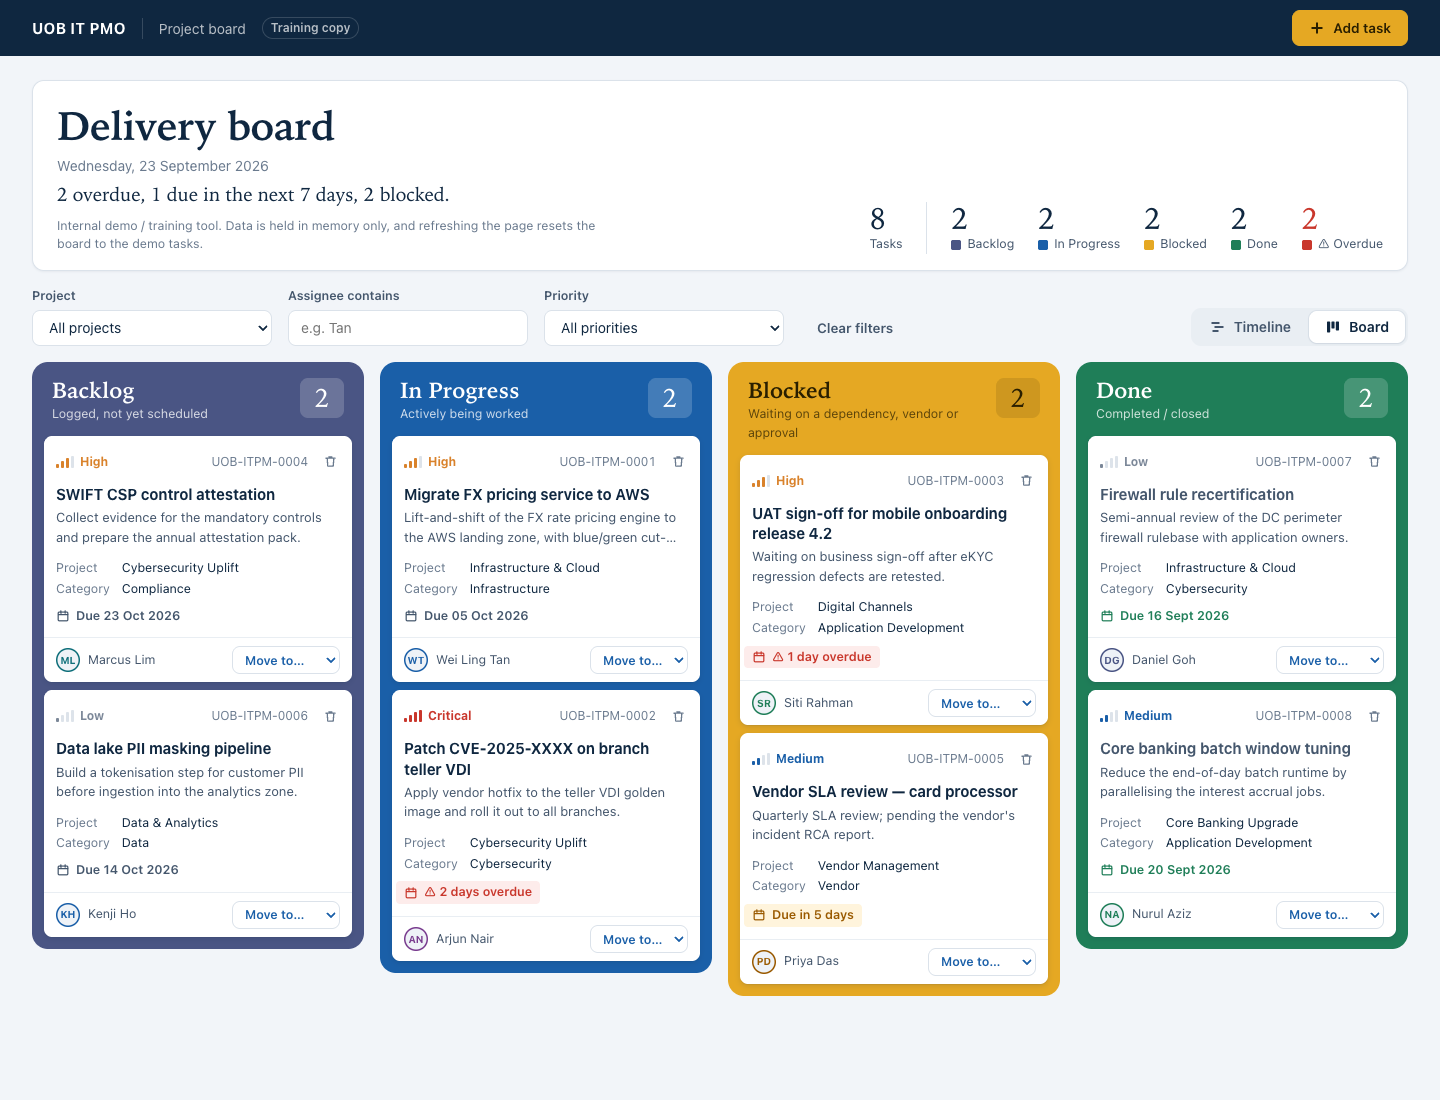
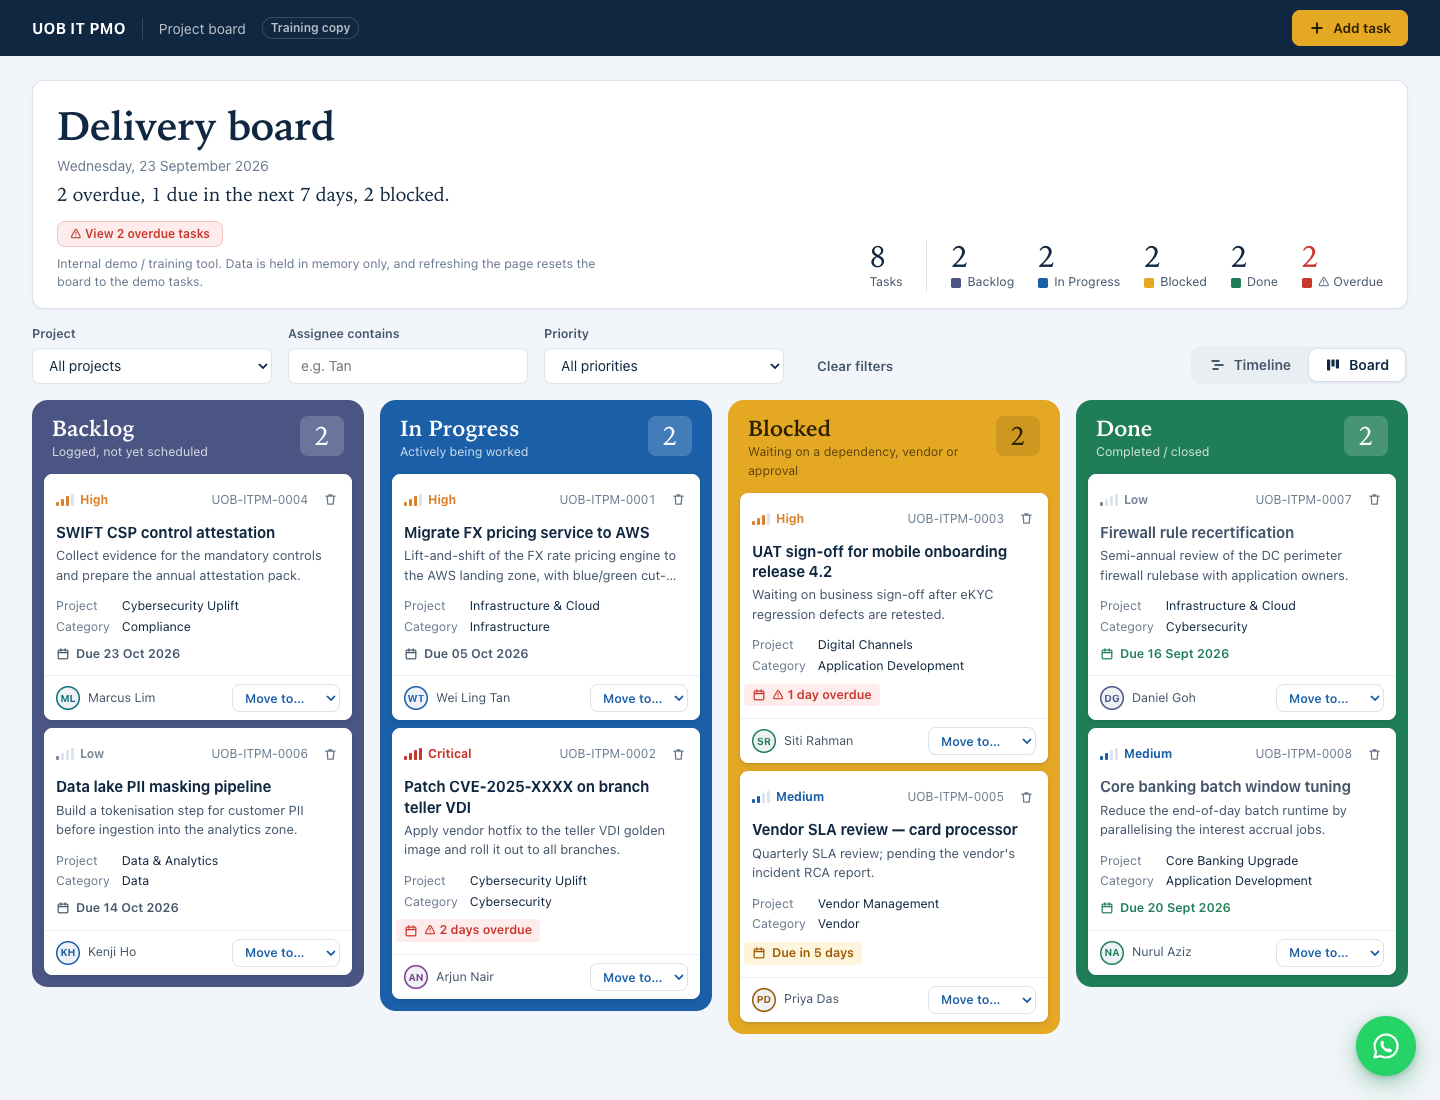
Add WhatsApp IT support widget and overdue tasks list
- Floating WhatsApp button opens suggested IT support questions; each
  opens wa.me/6512345678 in a new tab with the question pre-filled
- "View N overdue tasks" button opens a list of overdue tasks, most
  overdue first, with "Show on board" (clears hiding filters)
- Help popup now waits while any dialog is open
- README screenshots retaken, help popup screenshot added; docs updated

diff --git a/index.html b/index.html
@@ -68,6 +68,14 @@
     --av-bg: #eef2f7;
 
     --focus: #2f80ed;
+
+    /* WhatsApp support widget */
+    --wa-green:      #25d366;
+    --wa-green-dark: #0a7038;
+    --wa-ink:        #ffffff;
+    --wa-tint:       #e9f9ef;
+    --wa-shadow:     0 8px 24px rgba(18, 140, 74, .4), 0 2px 6px rgba(15, 39, 64, .2);
+    --fab-size:      60px;
     --backdrop: rgba(15, 39, 64, .55);
     --shadow-card: 0 1px 0 rgba(15, 39, 64, .06), 0 2px 6px rgba(15, 39, 64, .14);
     --shadow-sheet: 0 1px 2px rgba(15, 39, 64, .06);
@@ -473,6 +481,62 @@
   }
   .hotline a:hover { color: var(--lane-in-progress); text-decoration: underline; text-underline-offset: 3px; }
   .help-actions { display: flex; justify-content: flex-end; }
+
+  /* Overdue tasks: button in the overview + list dialog */
+  .btn-overdue { margin-top: var(--space-3); color: var(--signal); background: var(--error-bg); border-color: var(--error-rule); }
+  .btn-overdue:hover { background: var(--paper); border-color: var(--signal); }
+  .btn-overdue[disabled] { color: var(--ok); background: var(--wash); border-color: var(--rule); opacity: 1; }
+  .overdue-dialog { width: min(640px, calc(100vw - 32px)); }
+  .overdue-dialog .dialog-header { border-bottom: 1px solid var(--rule-2); }
+  .od-body { padding: var(--space-3) var(--space-5) var(--space-5); max-height: min(60vh, 560px); overflow-y: auto; }
+  .od-list { list-style: none; margin: 0; padding: 0; }
+  .od-item {
+    display: grid; grid-template-columns: 76px 1fr auto; gap: var(--space-4); align-items: center;
+    padding: var(--space-3) 0; border-bottom: 1px solid var(--rule-2);
+  }
+  .od-item:last-child { border-bottom: 0; }
+  .od-days {
+    text-align: center; padding: var(--space-2) var(--space-1);
+    background: var(--error-bg); border: 1px solid var(--error-rule); border-radius: var(--radius-card); color: var(--signal);
+  }
+  .od-days strong { display: block; font-family: var(--serif); font-size: 26px; line-height: 1; }
+  .od-days span { font-size: 11.5px; font-weight: 600; }
+  .od-title { margin: 0 0 2px; font-size: 14.5px; font-weight: 650; overflow-wrap: anywhere; }
+  .od-meta { margin: 0; display: flex; flex-wrap: wrap; gap: 2px var(--space-3); font-size: 12.5px; color: var(--ink-3); }
+  .od-meta .g-status, .od-meta .prio { font-size: 12.5px; }
+  .od-empty { margin: 0; padding: var(--space-6) 0; text-align: center; color: var(--ok); font-weight: 600; }
+
+  /* Floating WhatsApp button + suggested-questions dialog */
+  .wa-fab {
+    position: fixed; right: var(--space-5); bottom: var(--space-5); z-index: 90;
+    width: var(--fab-size); height: var(--fab-size); border-radius: 50%; border: 0;
+    display: grid; place-items: center; cursor: pointer;
+    background: var(--wa-green); color: var(--wa-ink); box-shadow: var(--wa-shadow);
+    transition: transform .15s;
+  }
+  .wa-fab:hover { transform: scale(1.06); background: var(--wa-green-dark); }
+  .wa-fab svg { width: 32px; height: 32px; }
+  .wa-dialog { width: min(460px, calc(100vw - 32px)); }
+  .wa-dialog .dialog-header { background: var(--wa-green-dark); color: var(--wa-ink); border-radius: var(--radius-sheet) var(--radius-sheet) 0 0; padding-bottom: var(--space-4); }
+  .wa-dialog .dialog-sub { color: var(--wa-ink); }
+  .wa-dialog .icon-btn { color: var(--wa-ink); }
+  .wa-dialog .icon-btn:hover { background: var(--lane-chip-light); color: var(--wa-ink); }
+  .wa-body { padding: var(--space-4) var(--space-5) var(--space-5); }
+  .wa-body h3 { margin: 0 0 var(--space-2); font-size: 13px; font-weight: 600; color: var(--ink-3); }
+  .wa-queries { list-style: none; margin: 0; padding: 0; display: flex; flex-direction: column; gap: var(--space-2); }
+  .wa-query {
+    display: flex; align-items: center; gap: var(--space-3);
+    padding: 10px var(--space-3); border: 1px solid var(--rule); border-radius: var(--radius-card);
+    color: var(--ink); text-decoration: none; font-weight: 500;
+  }
+  .wa-query:hover { border-color: var(--wa-green); background: var(--wa-tint); }
+  .wa-query svg { width: 18px; height: 18px; color: var(--wa-green-dark); flex: none; }
+  .wa-foot {
+    display: flex; align-items: center; justify-content: space-between; gap: var(--space-3); flex-wrap: wrap;
+    margin-top: var(--space-4); padding-top: var(--space-3); border-top: 1px solid var(--rule-2);
+    font-size: 12.5px; color: var(--ink-3);
+  }
+  .wa-foot a { color: var(--wa-green-dark); font-weight: 700; }
   .task-form { padding: var(--space-2) var(--space-5) 0; }
   .form-grid { display: grid; grid-template-columns: 1fr 1fr; gap: var(--space-2) var(--space-4); }
   .form-grid .full { grid-column: 1 / -1; }
@@ -492,7 +556,7 @@
      10. Toasts
      ========================================================== */
   .toasts {
-    position: fixed; right: var(--space-5); bottom: var(--space-5);
+    position: fixed; right: var(--space-5); bottom: calc(var(--space-5) + var(--fab-size) + var(--space-3));
     display: flex; flex-direction: column; gap: var(--space-2);
     z-index: 100; max-width: calc(100vw - 32px);
   }
@@ -530,7 +594,10 @@
   }
   @media (max-width: 520px) {
     .form-grid { grid-template-columns: 1fr; }
-    .toasts { right: var(--space-4); bottom: var(--space-4); }
+    .od-item { grid-template-columns: 64px 1fr; }
+    .od-item .btn { grid-column: 2; justify-self: start; }
+    .toasts { right: var(--space-4); bottom: calc(var(--space-4) + var(--fab-size) + var(--space-3)); }
+    .wa-fab { right: var(--space-4); bottom: var(--space-4); }
     .filters .field { flex: 1 1 100%; }
   }
   @media (prefers-reduced-motion: reduce) {
@@ -569,6 +636,7 @@
           <h1 class="page-title" id="page-title">Delivery board</h1>
           <p class="as-of" id="as-of"></p>
           <p class="board-status" id="board-status"></p>
+          <button type="button" id="open-overdue" class="btn btn-sm btn-overdue" aria-haspopup="dialog">View overdue tasks</button>
           <p class="demo-note">Internal demo / training tool. Data is held in memory only, and refreshing the page resets the board to the demo tasks.</p>
         </div>
         <dl class="summary" aria-label="Board summary">
@@ -705,6 +773,49 @@
   </div>
 </dialog>
 
+<!-- ============================================================
+     Overdue tasks dialog (list rendered from state when opened)
+     ============================================================ -->
+<dialog id="overdue-dialog" class="overdue-dialog" aria-labelledby="overdue-dialog-title" aria-describedby="overdue-dialog-desc">
+  <div class="dialog-header">
+    <div>
+      <h2 id="overdue-dialog-title">Overdue tasks</h2>
+      <p class="dialog-sub" id="overdue-dialog-desc">Open tasks past their due date, most overdue first. This list ignores the filters.</p>
+    </div>
+    <button type="button" class="icon-btn" id="close-overdue" aria-label="Close overdue tasks">
+      <svg viewBox="0 0 16 16" aria-hidden="true" focusable="false"><path d="M4 4l8 8M12 4l-8 8" stroke="currentColor" stroke-width="1.8" stroke-linecap="round"/></svg>
+    </button>
+  </div>
+  <div class="od-body" id="overdue-list"></div>
+</dialog>
+
+<!-- ============================================================
+     WhatsApp IT support: floating button + suggested questions
+     (questions are rendered from SUPPORT_QUERIES in JS)
+     ============================================================ -->
+<button type="button" id="wa-fab" class="wa-fab" aria-label="Chat with IT support on WhatsApp" aria-haspopup="dialog" title="Chat with IT support on WhatsApp">
+  <svg viewBox="0 0 32 32" aria-hidden="true" focusable="false"><path d="M16 4.5A11.5 11.5 0 0 0 6.1 21.8L4.5 27.5l5.9-1.5A11.5 11.5 0 1 0 16 4.5Z" fill="none" stroke="currentColor" stroke-width="2.2" stroke-linejoin="round"/><path d="M12.2 10.5c.4 0 .7.1.9.6l1 2.3c.1.3 0 .6-.1.8l-.8 1c.9 1.7 2.2 3 3.9 3.9l1-.8c.3-.2.5-.2.8-.1l2.3 1c.4.2.6.5.6.9 0 1.5-1.3 2.5-2.7 2.3-4.6-.6-8.2-4.2-8.8-8.8-.2-1.5.8-2.8 1.9-3.1Z" fill="currentColor"/></svg>
+</button>
+<dialog id="wa-dialog" class="wa-dialog" aria-labelledby="wa-dialog-title" aria-describedby="wa-dialog-desc">
+  <div class="dialog-header">
+    <div>
+      <h2 id="wa-dialog-title">IT support on WhatsApp</h2>
+      <p class="dialog-sub" id="wa-dialog-desc">Pick a question to start a chat. WhatsApp opens in a new tab with your message ready to edit and send.</p>
+    </div>
+    <button type="button" class="icon-btn" id="close-wa" aria-label="Close WhatsApp support">
+      <svg viewBox="0 0 16 16" aria-hidden="true" focusable="false"><path d="M4 4l8 8M12 4l-8 8" stroke="currentColor" stroke-width="1.8" stroke-linecap="round"/></svg>
+    </button>
+  </div>
+  <div class="wa-body">
+    <h3 id="wa-queries-title">Common questions</h3>
+    <ul class="wa-queries" id="wa-queries" aria-labelledby="wa-queries-title"></ul>
+    <div class="wa-foot">
+      <span>WhatsApp <span id="wa-number-label"></span></span>
+      <a id="wa-blank" target="_blank" rel="noopener noreferrer">Start a blank chat</a>
+    </div>
+  </div>
+</dialog>
+
 <!-- Toast region (announced politely to screen readers) -->
 <div id="toasts" class="toasts" role="status" aria-live="polite"></div>
 
@@ -725,6 +836,20 @@ const FORMSUBMIT_ENDPOINT = "https://formsubmit.co/ajax/YOUR_EMAIL@example.com";
 // Help popup: shown once per page load after this many ms of visible time on the page
 const HELP_PROMPT_DELAY_MS = 10000;
 const SUPPORT_HOTLINE = "12345678";
+
+// WhatsApp IT support: international number without "+" or spaces, and the
+// suggested questions shown when the floating button is clicked
+const WHATSAPP_NUMBER = "6512345678";
+const SUPPORT_QUERIES = [
+  "I can't log in or my account is locked",
+  "I need to reset my password",
+  "VPN or remote access isn't working",
+  "I need software installed on my laptop",
+  "My laptop or other hardware has a problem",
+  "I need access to a shared drive or application",
+  "I want to report a suspicious or phishing email",
+  "What's the status of my support ticket?",
+];
 
 const STATUSES = [
   { name: "Backlog",     hint: "Logged, not yet scheduled" },
@@ -1058,6 +1183,10 @@ function renderSummary() {
   document.getElementById("board-status").textContent =
     parts.length ? parts.join(", ") + "." : "Nothing is overdue, due this week or blocked.";
 
+  const overdueBtn = document.getElementById("open-overdue");
+  overdueBtn.textContent = overdue ? `⚠ View ${plural(overdue, "overdue task")}` : "✓ No overdue tasks";
+  overdueBtn.disabled = !overdue;
+
   renderTimeline();
 }
 
@@ -1360,14 +1489,69 @@ function wireViews() {
   // Picking a task on the timeline opens the board on that card
   document.getElementById("timeline-view").addEventListener("click", e => {
     const btn = e.target.closest("[data-show]");
+    if (btn) showOnBoard(btn.dataset.show);
+  });
+}
+
+// Switch to the board and flash + focus one card, clearing filters that hide it
+function showOnBoard(id) {
+  if (!applyFilters(state.tasks).some(t => t.id === id)) resetFilters();
+  const sel = `.card[data-id="${CSS.escape(id)}"]`;
+  ui.view = "board";
+  ui.highlight = id;
+  ui.focusAfterRender = `${sel} .move-select`;
+  renderBoard();
+  const card = document.querySelector(sel);
+  if (card) card.scrollIntoView({ block: "center" });
+}
+
+/* ============================================================
+   OVERDUE LIST: every open task past its due date, worst first
+   ============================================================ */
+function renderOverdueList() {
+  const tasks = state.tasks.filter(isOverdue)
+    .sort((a, b) => (a.dueDate < b.dueDate ? -1 : a.dueDate > b.dueDate ? 1 : 0));
+  const list = document.getElementById("overdue-list");
+  if (!tasks.length) {
+    list.innerHTML = `<p class="od-empty">✓ Nothing is overdue.</p>`;
+    return;
+  }
+  list.innerHTML = `<ul class="od-list">${tasks.map(t => {
+    const id = escapeHtml(t.id);
+    const days = -daysFromToday(t.dueDate);
+    const level = PRIORITIES.length - PRIORITIES.indexOf(t.priority);
+    return `
+      <li class="od-item prio-${slug(t.priority)}">
+        <div class="od-days"><strong>${escapeHtml(days)}</strong><span>${days === 1 ? "day" : "days"} late</span></div>
+        <div>
+          <p class="od-title">${escapeHtml(t.title)}</p>
+          <p class="od-meta">
+            <span>${id}</span>
+            <span class="g-status st-${slug(t.status)}">${escapeHtml(t.status)}</span>
+            <span class="prio" style="--prio: var(--p-${slug(t.priority)})"><span class="prio-meter lvl-${level}" aria-hidden="true"><i></i><i></i><i></i><i></i></span>${escapeHtml(t.priority)}</span>
+            <span>${escapeHtml(t.assignee)}</span>
+            <span>Due ${escapeHtml(formatDate(t.dueDate))}</span>
+          </p>
+        </div>
+        <button type="button" class="btn btn-sm" data-show="${id}">Show on board</button>
+      </li>`;
+  }).join("")}</ul>`;
+}
+
+function wireOverdue() {
+  const od = document.getElementById("overdue-dialog");
+  document.getElementById("open-overdue").addEventListener("click", () => {
+    renderOverdueList();
+    od.showModal();
+    const first = od.querySelector("[data-show]") || document.getElementById("close-overdue");
+    first.focus();
+  });
+  document.getElementById("close-overdue").addEventListener("click", () => od.close());
+  od.addEventListener("click", e => {
+    const btn = e.target.closest("[data-show]");
     if (!btn) return;
-    const sel = `.card[data-id="${CSS.escape(btn.dataset.show)}"]`;
-    ui.view = "board";
-    ui.highlight = btn.dataset.show;
-    ui.focusAfterRender = `${sel} .move-select`;
-    renderBoard();
-    const card = document.querySelector(sel);
-    if (card) card.scrollIntoView({ block: "center" });
+    od.close();
+    showOnBoard(btn.dataset.show);
   });
 }
 
@@ -1381,10 +1565,14 @@ function wireFilters() {
   assignee.addEventListener("input", () => { state.filters.assignee = assignee.value; renderBoard(); });
 
   document.getElementById("clear-filters").addEventListener("click", () => {
-    state.filters = { project: "", assignee: "", priority: "" };
-    project.value = ""; assignee.value = ""; priority.value = "";
+    resetFilters();
     renderBoard();
   });
+}
+
+function resetFilters() {
+  state.filters = { project: "", assignee: "", priority: "" };
+  ["filter-project", "filter-assignee", "filter-priority"].forEach(id => { document.getElementById(id).value = ""; });
 }
 
 /* ============================================================
@@ -1393,6 +1581,40 @@ function wireFilters() {
 /* ============================================================
    HELP POPUP: thank the visitor and show the support hotline
    ============================================================ */
+/* ============================================================
+   WHATSAPP SUPPORT: floating button opens suggested questions;
+   each opens wa.me in a new tab with the question pre-filled
+   ============================================================ */
+function whatsappLink(message) {
+  const base = "https://wa.me/" + WHATSAPP_NUMBER.replace(/[^0-9]/g, "");
+  return message ? base + "?text=" + encodeURIComponent(message) : base;
+}
+
+function wireWhatsApp() {
+  const waDialog = document.getElementById("wa-dialog");
+  const icon = '<svg viewBox="0 0 16 16" aria-hidden="true" focusable="false"><path d="M8 1.8a6.2 6.2 0 0 0-5.4 9.3l-.8 3.1 3.2-.8A6.2 6.2 0 1 0 8 1.8Z" fill="none" stroke="currentColor" stroke-width="1.4" stroke-linejoin="round"/></svg>';
+
+  document.getElementById("wa-queries").innerHTML = SUPPORT_QUERIES.map(q => {
+    const href = whatsappLink(`Hi IT Support, ${q}. (Sent from the UOB IT PMO board)`);
+    return `<li><a class="wa-query" href="${escapeHtml(href)}" target="_blank" rel="noopener noreferrer">${icon}<span>${escapeHtml(q)}</span></a></li>`;
+  }).join("");
+
+  const digits = WHATSAPP_NUMBER.replace(/[^0-9]/g, "");
+  document.getElementById("wa-number-label").textContent =
+    digits.length === 10 && digits.startsWith("65") ? `+65 ${digits.slice(2, 6)} ${digits.slice(6)}` : "+" + digits;
+  document.getElementById("wa-blank").href = whatsappLink("");
+
+  document.getElementById("wa-fab").addEventListener("click", () => {
+    waDialog.showModal();
+    waDialog.querySelector(".wa-query").focus();
+  });
+  document.getElementById("close-wa").addEventListener("click", () => waDialog.close());
+  // Close once a chat link has been opened in the new tab
+  waDialog.addEventListener("click", e => {
+    if (e.target.closest("a[href]")) waDialog.close();
+  });
+}
+
 function wireHelpPrompt() {
   const help = document.getElementById("help-dialog");
   const link = document.getElementById("help-hotline");
@@ -1410,8 +1632,9 @@ function wireHelpPrompt() {
 
   function show() {
     if (shown) return;
-    if (dialog.open) {
-      dialog.addEventListener("close", show, { once: true });
+    const busy = document.querySelector("dialog[open]");
+    if (busy) {
+      busy.addEventListener("close", show, { once: true });
       return;
     }
     shown = true;
@@ -1466,6 +1689,8 @@ function init() {
 
   seedTasks();
   renderBoard();
+  wireOverdue();
+  wireWhatsApp();
   wireHelpPrompt();
 }
 

diff --git a/README.md b/README.md
@@ -14,6 +14,10 @@ A single-file IT PMO Kanban board for internal demos and training. It shows how 
 
 ![UOB IT PMO Board in board view, showing the four colour Kanban lanes](docs/screenshot-board.png)
 
+**Help popup**: after 10 seconds on the page, visitors see the IT support hotline.
+
+![Help popup thanking the visitor and showing the IT support hotline 12345678](docs/screenshot-help.png)
+
 ## Features
 
 - **Four colour lanes** (Backlog, In Progress, Blocked, Done), like tape on a physical kanban wall, each with a short hint and a task count.
@@ -25,7 +29,9 @@ A single-file IT PMO Kanban board for internal demos and training. It shows how 
 - **Add Task dialog** with inline validation: title (max 80 chars), optional description (max 500), project, category, assignee, priority, due date and status. New tasks get IDs like `UOB-ITPM-0009`.
 - **Inline delete confirmation** ("Delete? Yes / No") instead of browser pop-ups.
 - **Overdue highlighting** for tasks whose due date has passed and that are not Done, plus a "Due in 5 days"-style label for tasks due within a week. Demo due dates are relative to today, so some cards are always overdue.
-- **Help popup**: after 10 seconds on the page (visible time only), a dialog thanks the visitor and shows the IT support hotline (`12345678`, a tap-to-call link on phones). It waits if the Add task dialog is open and shows once per page load. Change `HELP_PROMPT_DELAY_MS` and `SUPPORT_HOTLINE` at the top of the `<script>`.
+- **Overdue list**: a "⚠ View N overdue tasks" button in the overview (it reads "✓ No overdue tasks" and is disabled when there are none) opens a dialog listing every overdue task, most overdue first, with days late, ID, status, priority, assignee and due date. It ignores the filters. "Show on board" jumps to that card, clearing any filter that hides it.
+- **Help popup**: after 10 seconds on the page (visible time only), a dialog thanks the visitor and shows the IT support hotline (`12345678`, a tap-to-call link on phones). It waits while any other dialog is open and shows once per page load. Change `HELP_PROMPT_DELAY_MS` and `SUPPORT_HOTLINE` at the top of the `<script>`.
+- **WhatsApp IT support**: a floating button at the bottom right opens a list of common IT support questions. Picking one opens a WhatsApp chat with +65 1234 5678 in a new tab, with the question pre-filled; there is also a "Start a blank chat" link. Change `WHATSAPP_NUMBER` and `SUPPORT_QUERIES` at the top of the `<script>`.
 - **Email notification** of new tasks via a [FormSubmit](https://formsubmit.co/) AJAX POST (optional; see below). If it fails, the card is still added and a warning toast is shown.
 
 ### No persistence (on purpose)
@@ -62,7 +68,7 @@ While it still holds the `YOUR_EMAIL@example.com` placeholder, no request is sen
 - Icons are Unicode characters or inline SVG. Fonts are system fonts only: a system serif (Iowan Old Style, Charter or Georgia) for headings and numbers, and the system sans for everything else.
 - Responsive layout: four lanes on wide screens, two below 1180px, one on phones (the timeline scrolls sideways there). The dialog animation is turned off for users who prefer reduced motion.
 - Colours and spacing come from CSS custom properties on `:root`.
-- The only network call is the FormSubmit POST. The page never navigates away.
+- The only network call is the FormSubmit POST. The page never navigates away: WhatsApp links open `wa.me` in a new tab (`rel="noopener noreferrer"`) only when the user clicks one.
 
 ## Accessibility
 

diff --git a/CLAUDE.md b/CLAUDE.md
@@ -35,5 +35,7 @@ Syntax-check the script by extracting the `<script>` block and running `node --c
 - **Event delegation:** all card interactions (drag and drop, `data-action` buttons, the `.move-select` keyboard fallback) are delegated on `#board`, because cards are recreated on every render. To keep keyboard focus across re-renders, set `ui.focusAfterRender` to a selector before calling `renderBoard()`.
 - **Dates:** use `toLocalISO()`, `todayISO()` and `addDays()`, which build `YYYY-MM-DD` from local date parts. Don't use `toISOString()`, because it is UTC and shifts dates by a day. Overdue means `dueDate < today && status !== "Done"`. Seed due dates are relative to today, so the demo always shows overdue cards.
 - **Add flow is optimistic:** validate, `addTask()`, reset the form, close the dialog and show a toast, then `await notifyNewTask()` inside try/catch. `setSending()` keeps the submit button disabled and showing "Sending…" while a request is in flight. `notifyNewTask()` throws without making a request while the endpoint still holds the `YOUR_EMAIL@example.com` placeholder.
-- **Help popup:** `wireHelpPrompt()` opens `#help-dialog` once per page load after `HELP_PROMPT_DELAY_MS` of visible time, deferring while the Add task dialog is open. The delay and `SUPPORT_HOTLINE` are config constants next to `FORMSUBMIT_ENDPOINT`.
+- **Overdue list:** `renderSummary()` keeps the `#open-overdue` button's count current. `renderOverdueList()` fills `#overdue-dialog` when it opens. `showOnBoard(id)` (shared with the timeline) switches to the board, clears any filters that hide the card, then highlights and focuses it.
+- **Help popup:** `wireHelpPrompt()` opens `#help-dialog` once per page load after `HELP_PROMPT_DELAY_MS` of visible time, deferring while any other dialog is open. The delay and `SUPPORT_HOTLINE` are config constants next to `FORMSUBMIT_ENDPOINT`.
+- **WhatsApp support:** `wireWhatsApp()` renders `SUPPORT_QUERIES` into `#wa-dialog` as `https://wa.me/<WHATSAPP_NUMBER>?text=…` links that open in a new tab with `rel="noopener noreferrer"`. They are user-clicked links, not requests made by the page, so the FormSubmit POST is still the only network call. The help popup waits while any dialog is open.
 - The dropdown options come from the `PROJECTS`, `CATEGORIES`, `PRIORITIES` and `STATUSES` constants, which fill both the filter bar and the form. To add an option, edit the constant, not the markup.
